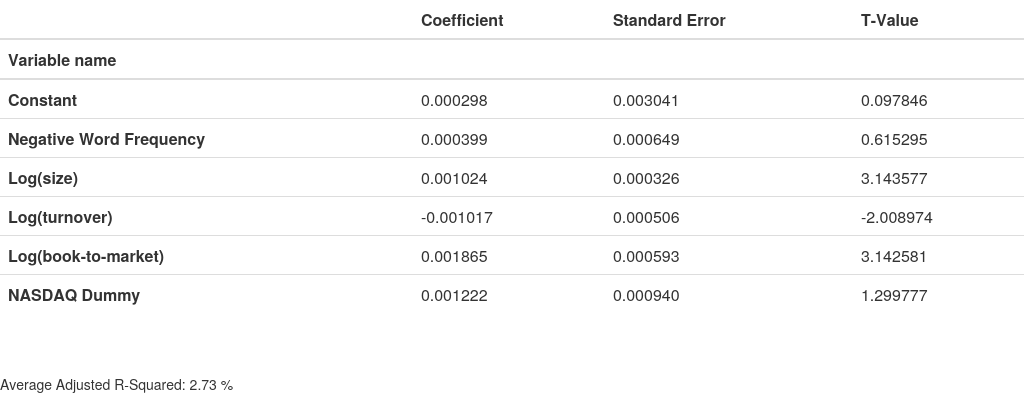
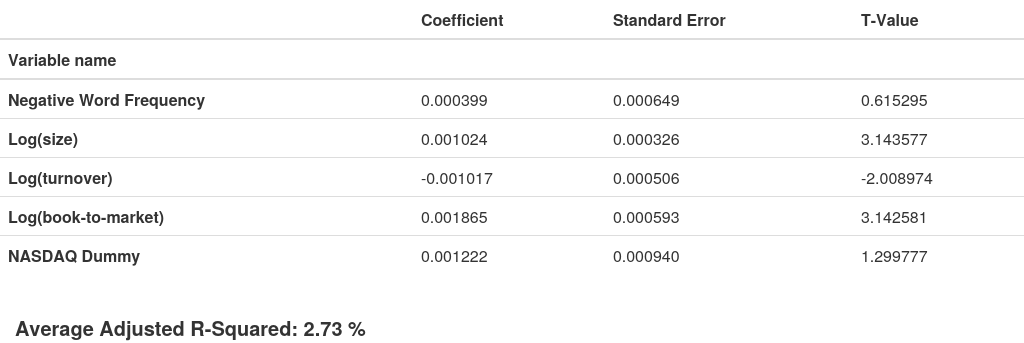
Styling fixes and removed const from results table

diff --git a/docs/results1994-2008.html b/docs/results1994-2008.html
@@ -24,12 +24,6 @@
   </thead>
   <tbody>
     <tr>
-      <th>Constant</th>
-      <td>0.004379</td>
-      <td>0.002058</td>
-      <td>2.128018</td>
-    </tr>
-    <tr>
       <th>Negative Word Frequency</th>
       <td>-0.001325</td>
       <td>0.000474</td>
@@ -61,5 +55,4 @@
     </tr>
   </tbody>
 </table><br/>
-<br/>
-Average Adjusted R-Squared: 1.27 %
+<b style='margin: 1.5rem !important; font-size: 20px'>Average Adjusted R-Squared: 1.27 %</b>

diff --git a/docs/results2008-2018.html b/docs/results2008-2018.html
@@ -24,12 +24,6 @@
   </thead>
   <tbody>
     <tr>
-      <th>Constant</th>
-      <td>0.000298</td>
-      <td>0.003041</td>
-      <td>0.097846</td>
-    </tr>
-    <tr>
       <th>Negative Word Frequency</th>
       <td>0.000399</td>
       <td>0.000649</td>
@@ -61,5 +55,4 @@
     </tr>
   </tbody>
 </table><br/>
-<br/>
-Average Adjusted R-Squared: 2.73 %
+<b style='margin: 1.5rem !important; font-size: 20px'>Average Adjusted R-Squared: 2.73 %</b>

diff --git a/analysis.py b/analysis.py
@@ -255,18 +255,6 @@ def ols_coef(section, outcome_var, predictor_vars, len_N):
     return series
 
 
-def variable_renaming(row):
-    mapping = {
-        'const': 'Constant',
-        'percent_negative': 'Negative Word Frequency',
-        'log_size': 'Log(size)',
-        'log_turnover': 'Log(turnover)',
-        'log_book_to_market': 'Log(book-to-market)',
-        'nasdaq_dummy': 'NASDAQ Dummy',
-    }
-    return row.rename(mapping[row.name], inplace=True)
-
-
 def do_fama_macbeth_analysis(MAIN, year_bgn, year_end):
     master, outcome_var, predictor_vars = prepare_analysis(MAIN, year_bgn, year_end)
     
@@ -276,7 +264,7 @@ def do_fama_macbeth_analysis(MAIN, year_bgn, year_end):
     newey_west_df = pd.DataFrame(columns=['Variable name', 'Coefficient', 'Standard Error', 'T-Value'])
     newey_west_df = newey_west_df.set_index(['Variable name'])
     for column_hat in cross_section_results:
-        if column_hat == 'r_squared':
+        if column_hat in {'r_squared', 'const'}:
             # This is not supposed to be t tested
             # we saved it only for the average
             continue
@@ -289,21 +277,19 @@ def do_fama_macbeth_analysis(MAIN, year_bgn, year_end):
         row = [
             model.params[0], # coef
             model.bse[0], # std_err
-            # model.pvalues[0], # p_values
             model.tvalues[0], # t_values
         ]
         newey_west_df.loc[column_hat] = row
 
     fname = "docs/results{}-{}.html".format(year_bgn, year_end)
-    newey_west_df = newey_west_df.head(6)
     mapping = {
-        'const': 'Constant',
         'percent_negative': 'Negative Word Frequency',
         'log_size': 'Log(size)',
         'log_turnover': 'Log(turnover)',
         'log_book_to_market': 'Log(book-to-market)',
         'nasdaq_dummy': 'NASDAQ Dummy',
     }
+    newey_west_df = newey_west_df.head(len(mapping))
     newey_west_df.rename(index=mapping, inplace=True)
     print(newey_west_df)
 
@@ -311,8 +297,7 @@ def do_fama_macbeth_analysis(MAIN, year_bgn, year_end):
         f_obj.write(BOOTSTRAP)
         f_obj.write(newey_west_df.to_html(classes=["table"]).replace('border="1"', ''))
         f_obj.write("<br/>\n")
-        f_obj.write("<br/>\n")
-        f_obj.write("Average Adjusted R-Squared: {:.2f} %".format(cross_section_results['r_squared'].mean() * 100))
+        f_obj.write("<b style='margin: 1.5rem !important; font-size: 20px'>Average Adjusted R-Squared: {:.2f} %</b>".format(cross_section_results['r_squared'].mean() * 100))
 
 
 def do_summary_statistics(MAIN):
@@ -385,13 +370,13 @@ def do_quantile_graph(MAIN):
 
 def main():
     with connect(C.MAIN_DB_NAME) as MAIN:
-        # do_fama_macbeth_analysis(MAIN, 1994, 2008)
-        # do_fama_macbeth_analysis(MAIN, 2008, 2018)
+        do_fama_macbeth_analysis(MAIN, 1994, 2008)
+        do_fama_macbeth_analysis(MAIN, 2008, 2018)
         # do_sample_profiling(MAIN, 2008, 2018, 'index.html')
         # do_full_data_profiling(MAIN, 2008, 2018, 'full_dataset.html')
         # do_sample_profiling(MAIN, 1994, 2008, 'original_study_sample.html')
         # do_full_data_profiling(MAIN, 1994, 2008, 'original_study_full_dataset.html')
-        do_summary_statistics(MAIN)
+        # do_summary_statistics(MAIN)
         # do_quantile_graph(MAIN)
 
 
